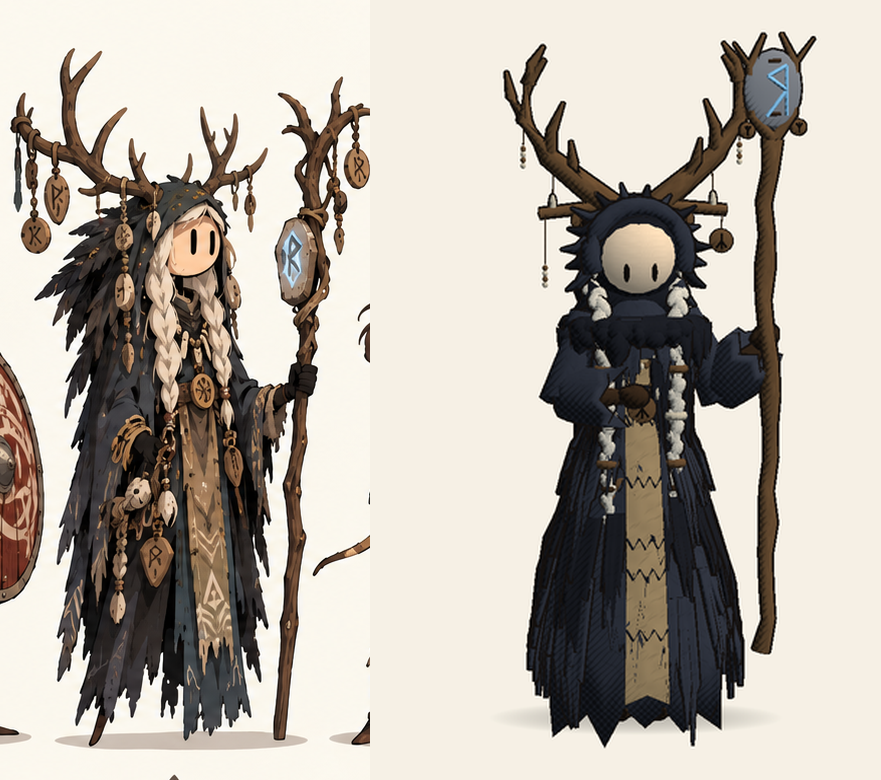
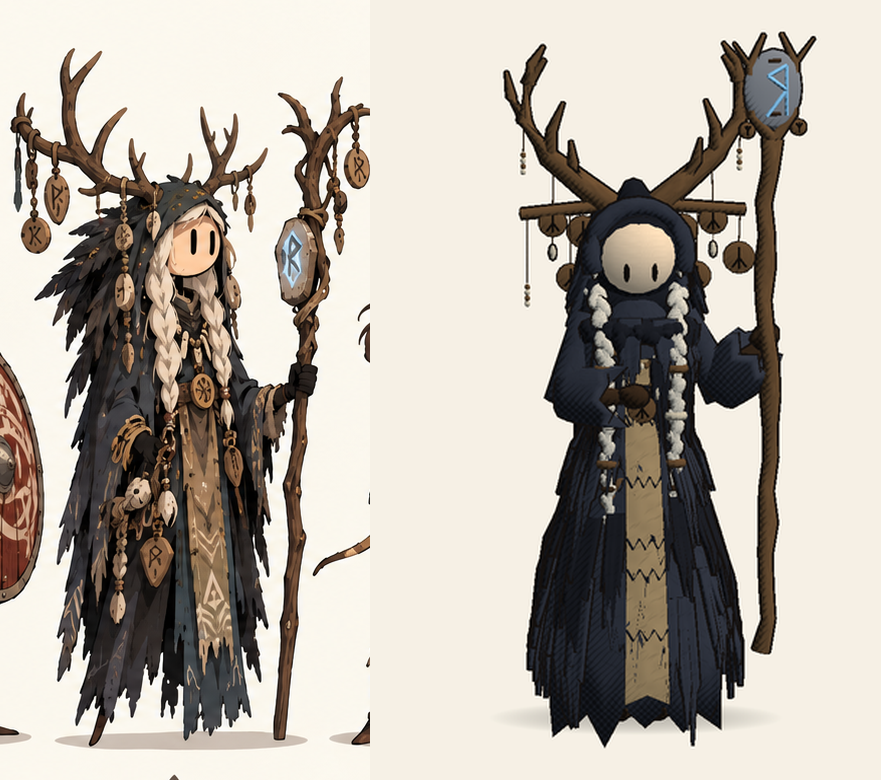
Old Seer polish pass 2
The hood gets a soft peak and its feathers now hang down its sides like a
mane instead of bristling out like a halo; slimmer shoulders and sleeves;
a wider antler crossbar with bigger rune discs on longer cords, some with a
bone bead dangling below.

Claude-Session: https://claude.ai/code/session_01SCdejJ1UF8RUxAkkFhZXGU

diff --git a/OdinsCoin/Assets/Scripts/Characters/Garments.cs b/OdinsCoin/Assets/Scripts/Characters/Garments.cs
@@ -806,12 +806,12 @@ namespace OdinsCoin
                 d.Add(Joints.Body, colour, CharacterKit.Flaps(tops[t], len, 14 + t * 2, 0.95f, depth, surface, 0.01f + t * 0.004f, d.seed + 62 + t, 0.01f * s));
             }
             // Feathers bristling round the shoulders.
-            d.Add(Joints.Body, d.pal.clothDark, CharacterKit.FurRing(new Vector3(0f, f.shoulderY - 0.01f * s, 0f), f.shoulderX + 0.05f * s, 0.8f, 0.06f * s, 24, 0.14f * s, d.seed + 67, 1.1f));
+            d.Add(Joints.Body, d.pal.clothDark, CharacterKit.FurRing(new Vector3(0f, f.shoulderY - 0.01f * s, 0f), f.shoulderX + 0.02f * s, 0.8f, 0.05f * s, 24, 0.1f * s, d.seed + 67, 1.4f));
             // Ragged sleeves hanging from the arms.
             foreach (var arm in new[] { Joints.LeftArm, Joints.RightArm })
             {
-                float r = 0.06f * s;
-                d.Add(arm, d.pal.cloth, MeshData.Lathe(new[] { new Vector2(r * 1.3f, -f.upperArm - 0.02f * s), new Vector2(r, -0.1f * s), new Vector2(r * 0.9f, 0.03f * s) }, 10));
+                float r = 0.05f * s;
+                d.Add(arm, d.pal.cloth, MeshData.Lathe(new[] { new Vector2(r * 1.25f, -f.upperArm - 0.02f * s), new Vector2(r, -0.1f * s), new Vector2(r * 0.9f, 0.03f * s) }, 10));
             }
             foreach (var fore in new[] { Joints.LeftForearm, Joints.RightForearm })
             {
@@ -837,15 +837,20 @@ namespace OdinsCoin
                 rr[i] = 0.03f * s;
             }
             d.Add(Joints.Head, d.pal.cloth, MeshData.Tube(rim, rr, 6));
-            // Ragged feathers bristling all round the hood's edge.
+            // Ragged feathers round the hood's edge, lying down along it and hanging off the sides like a mane.
             var rng = new System.Random(d.seed + 70);
-            for (int i = 0; i < 16; i++)
+            for (int i = 0; i < 18; i++)
             {
-                float a = Mathf.Lerp(-0.6f, Mathf.PI + 0.6f, i / 15f);
-                var root = new Vector3(Mathf.Cos(a) * r * 1.2f, cy + Mathf.Sin(a) * r * 1.22f, r * 0.2f);
-                var outDir = new Vector3(Mathf.Cos(a), Mathf.Sin(a) - 0.6f, -0.3f).normalized;
-                d.Add(Joints.Head, i % 2 == 0 ? d.pal.clothDark : d.pal.cloth, CharacterKit.Tuft(root, root + outDir * (0.06f + (float)rng.NextDouble() * 0.05f) * s, 0.02f * s));
+                float a = Mathf.Lerp(-0.5f, Mathf.PI + 0.5f, i / 17f);
+                var root = new Vector3(Mathf.Cos(a) * r * 1.18f, cy + Mathf.Sin(a) * r * 1.2f, r * 0.15f);
+                float side = Mathf.Abs(Mathf.Cos(a));
+                var outDir = new Vector3(Mathf.Cos(a) * 0.35f, -1f, -0.15f).normalized;
+                float len = (0.05f + side * 0.12f + (float)rng.NextDouble() * 0.05f) * s;
+                d.Add(Joints.Head, i % 2 == 0 ? d.pal.clothDark : d.pal.cloth, CharacterKit.Tuft(root, root + outDir * len, 0.022f * s));
             }
+            // A soft peak at the top of the hood.
+            d.Add(Joints.Head, d.pal.clothDark, MeshData.Tube(new[] { new Vector3(0f, cy + r * 1.1f, -0.25f * r), new Vector3(0f, cy + r * 1.45f, -0.45f * r), new Vector3(0f, cy + r * 1.55f, -0.75f * r) },
+                new[] { r * 0.55f, r * 0.25f, 0.004f }, 8));
             // The hood falls onto the shoulders behind the neck.
             d.Add(Joints.Head, d.pal.clothDark, MeshData.Ellipsoid(new Vector3(0f, cy - r * 1.0f, -r * 0.55f), new Vector3(r * 1.35f, r * 0.7f, r * 0.9f), 14, 8));
         }
@@ -942,7 +947,7 @@ namespace OdinsCoin
             var horn = d.pal.leather;
             var rng = new System.Random(d.seed + 71);
             // The crossbar, just above the hood behind the head.
-            float barY = cy + r * 1.05f, barZ = -r * 0.45f, half = 0.3f * s;
+            float barY = cy + r * 1.05f, barZ = -r * 0.45f, half = 0.36f * s;
             d.Add(Joints.Head, VikingModel.Shade(horn, 0.9f), MeshData.Tube(new[] { new Vector3(-half, barY - 0.02f * s, barZ), new Vector3(0f, barY + 0.01f * s, barZ), new Vector3(half, barY - 0.02f * s, barZ) }, new[] { 0.016f * s, 0.018f * s, 0.016f * s }, 7));
             foreach (float x in new[] { -1f, 1f })
             {
@@ -964,7 +969,7 @@ namespace OdinsCoin
                 for (int k = 0; k < 3; k++)
                 {
                     var hang = Vector3.Lerp(beam[1], beam[3], k / 2f);
-                    Charm(d, hang, (0.08f + 0.06f * (k % 2)) * s, k, rng);
+                    Charm(d, hang, (0.1f + 0.08f * (k % 2)) * s, k, rng);
                 }
             }
             // Charms hanging along the crossbar.
@@ -972,7 +977,7 @@ namespace OdinsCoin
             {
                 float x = Mathf.Lerp(-half * 0.95f, half * 0.95f, k / 5f);
                 if (Mathf.Abs(x) < r * 0.6f) continue; // not in front of the face
-                Charm(d, new Vector3(x, barY - 0.02f * s, barZ + 0.02f * s), (0.06f + 0.05f * (k % 3)) * s, k + 3, rng);
+                Charm(d, new Vector3(x, barY - 0.02f * s, barZ + 0.02f * s), (0.1f + 0.06f * (k % 3)) * s, k + 3, rng);
             }
         }
 
@@ -984,8 +989,13 @@ namespace OdinsCoin
             d.Add(Joints.Head, d.pal.leatherDark, MeshData.Tube(new[] { from, end }, new[] { 0.0025f * s, 0.0025f * s }, 4), false);
             switch (kind % 3)
             {
-                case 0: RuneDisc(d, Joints.Head, end + Vector3.down * 0.035f * s, 0.036f * s, Quaternion.Euler(90f, 0f, 0f)); break;
-                case 1: d.Add(Joints.Head, d.pal.parchment, MeshData.Ellipsoid(end + Vector3.down * 0.025f * s, new Vector3(0.011f, 0.032f, 0.011f) * s, 6, 5)); break;
+                case 0: RuneDisc(d, Joints.Head, end + Vector3.down * 0.05f * s, 0.05f * s, Quaternion.Euler(90f, 0f, 0f)); break;
+                case 1:
+                    // A rune disc with a bone bead dangling under it.
+                    RuneDisc(d, Joints.Head, end + Vector3.down * 0.045f * s, 0.044f * s, Quaternion.Euler(90f, 0f, 0f));
+                    d.Add(Joints.Head, d.pal.leatherDark, MeshData.Tube(new[] { end + Vector3.down * 0.09f * s, end + Vector3.down * 0.12f * s }, new[] { 0.002f * s, 0.002f * s }, 4), false);
+                    d.Add(Joints.Head, d.pal.parchment, MeshData.Ellipsoid(end + Vector3.down * 0.14f * s, new Vector3(0.011f, 0.024f, 0.011f) * s, 6, 5));
+                    break;
                 default:
                     for (int i = 0; i < 4; i++)
                         d.Add(Joints.Head, i % 2 == 0 ? d.pal.leather : d.pal.parchment, MeshData.Ellipsoid(end + Vector3.down * (0.012f + i * 0.018f) * s, Vector3.one * 0.01f * s, 6, 4), false);
